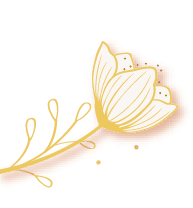
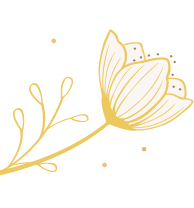
flo

Changed region(s): [[0.0, 0.1442, 1.0, 0.9231], [0.4974, 0.75, 0.5596, 0.8077], [0.2487, 0.1731, 0.3109, 0.2019]]

diff --git a/style.css b/style.css
@@ -1330,9 +1330,9 @@ body {
 
 @media (max-width: 991px) {
   .padrino-decor { display: block; }
-  .padrino-decor.superior-izquierda img { width: 160px; opacity: 0.6; }
-  .padrino-decor.superior-derecha img { width: 160px; opacity: 0.6; }
-  .padrino-decor.inferior-centro img { width: 270px; opacity: 0.6; }
+  .padrino-decor.superior-izquierda img { width: 160px  }
+  .padrino-decor.superior-derecha img { width: 160px; }
+  .padrino-decor.inferior-centro img { width: 270px; }
 }
 
 @media (max-width: 768px) {
